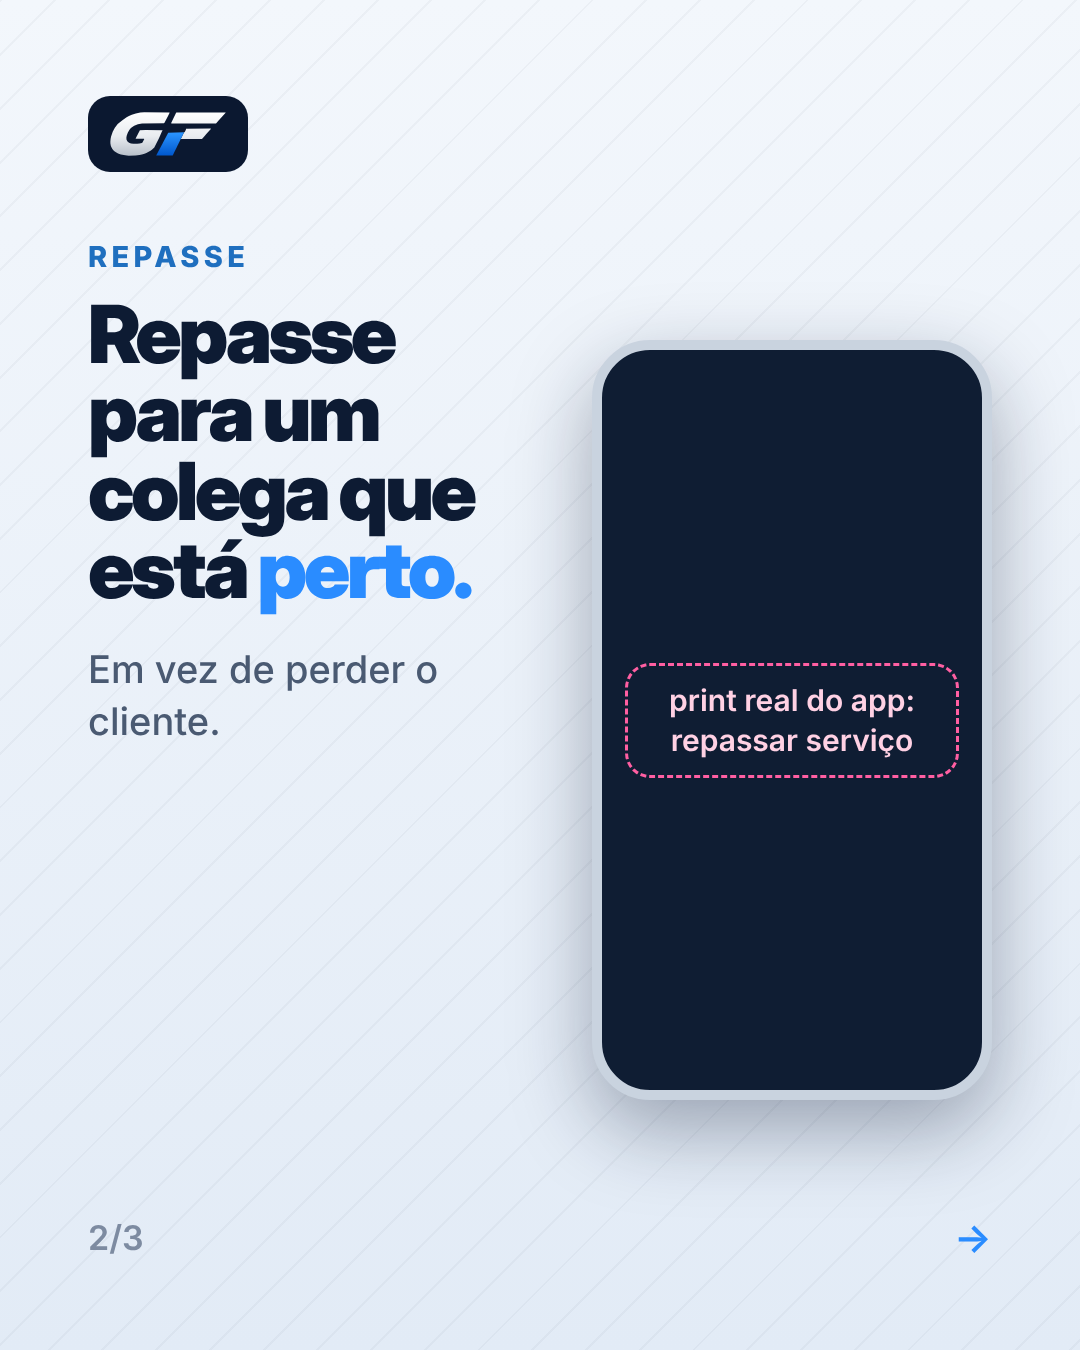
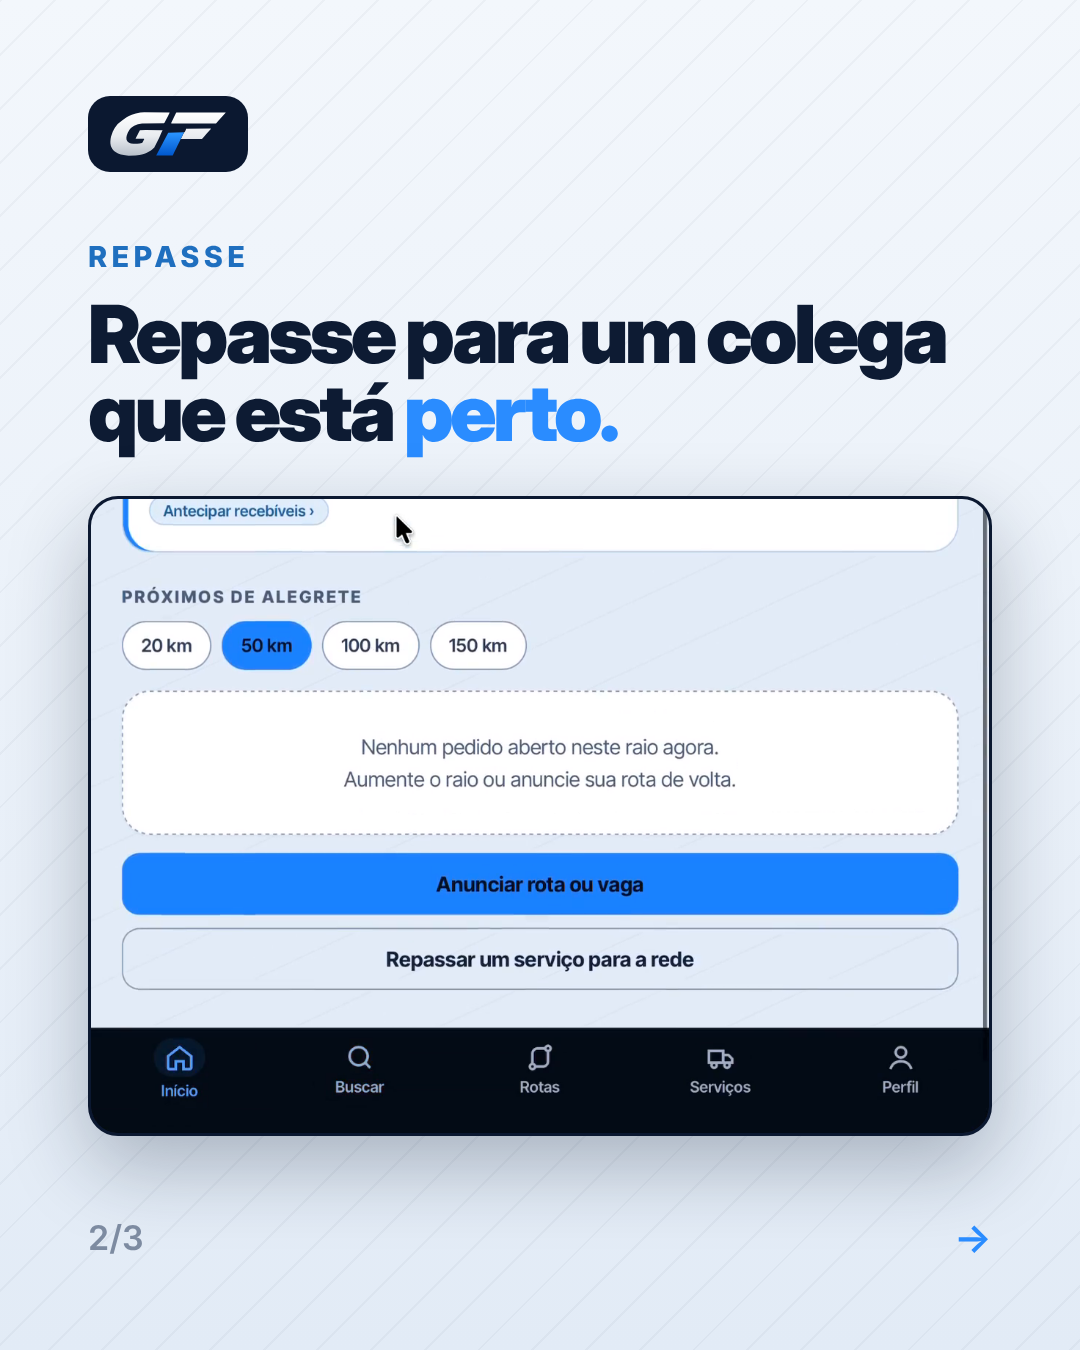
Use real app screens from the screen recording in tutorial and repasse arts
Claude-Session: https://claude.ai/code/session_019ynR5GfJeCsqWeiqbbuFrU

diff --git a/gf-designs/src/artes-pos.html b/gf-designs/src/artes-pos.html
@@ -14,10 +14,10 @@
 <!-- 25/11 Tutorial -->
 <div class="art feed dark" id="25-11_tutorial-1" data-photo="guincho-pesado-caminhao-tanque" data-n="1/5" data-arrow data-lock>
 <div class="bottom"><div class="kick">Passo a passo</div><h1>Como anunciar seu retorno em <span class="b">1 minuto.</span></h1><p class="p">Salve e mande para o parceiro que ainda volta vazio.</p></div></div>
-<div class="art feed light" id="25-11_tutorial-2" data-n="2/5" data-arrow><div class="half"><div class="kick">Passo 1</div><h1 class="s">Abra o app e toque em <span class="b">anunciar retorno.</span></h1></div><div class="phone"><span>print real do app: tela inicial</span></div></div>
-<div class="art feed light" id="25-11_tutorial-3" data-n="3/5" data-arrow><div class="half"><div class="kick">Passo 2</div><h1 class="s">Escolha de onde sai, para onde volta e o <span class="b">horário.</span></h1></div><div class="phone"><span>print real do app: origem, destino e horário</span></div></div>
-<div class="art feed light" id="25-11_tutorial-4" data-n="4/5" data-arrow><div class="half"><div class="kick">Passo 3</div><h1 class="s" style="font-size:68px">Diga o equipamento: plataforma, reboque, <span class="b">asa-delta.</span></h1></div><div class="phone"><span>print real do app: equipamento</span></div></div>
-<div class="art feed light" id="25-11_tutorial-5" data-n="5/5"><div class="half"><div class="kick">Passo 4</div><h1 class="s">Pronto: os pedidos que cabem no caminho <span class="b">aparecem.</span></h1></div><div class="phone"><span>print real do app: pedidos na rota com km de desvio</span></div></div>
+<div class="art feed light" id="25-11_tutorial-2" data-n="2/5" data-arrow><div class="kick">Passo 1</div><h1 class="s">Abra o app e toque em <span class="b">anunciar rota.</span></h1><div class="shot"><img src="../fotos/app-rotas-anunciar.png"></div></div>
+<div class="art feed light" id="25-11_tutorial-3" data-n="3/5" data-arrow><div class="kick">Passo 2</div><h1 class="s">De onde sai, para onde volta e <span class="b">quando.</span></h1><div class="shot"><img src="../fotos/app-anunciar-rota-form.png"></div></div>
+<div class="art feed light" id="25-11_tutorial-4" data-n="4/5" data-arrow><div class="kick">Passo 3</div><h1 class="s">Diga o equipamento <span class="b">livre.</span></h1><div class="shot"><img src="../fotos/app-equipamento.png"></div></div>
+<div class="art feed light" id="25-11_tutorial-5" data-n="5/5"><div class="kick">Passo 4</div><h1 class="s">Veja os pedidos e a distância de <span class="b">cada um.</span></h1><div class="shot"><img src="../fotos/app-buscar-pedidos.png"></div></div>
 
 <!-- 30/11 Rota do dia -->
 <div class="art feed dark" id="30-11_rota-do-dia-feed" data-lock>
@@ -48,7 +48,7 @@
 <!-- 07/12 Repasse -->
 <div class="art feed dark" id="07-12_repasse-1" data-photo="plataforma-chuva" data-n="1/3" data-arrow data-lock>
 <div class="bottom"><div class="kick">Guincheiro ajuda guincheiro</div><h1>Chamado longe demais? <span class="b">Agenda cheia?</span></h1></div></div>
-<div class="art feed light" id="07-12_repasse-2" data-n="2/3" data-arrow><div class="half"><div class="kick">Repasse</div><h1 class="s">Repasse para um colega que está <span class="b">perto.</span></h1><p class="p" style="font-size:38px">Em vez de perder o cliente.</p></div><div class="phone"><span>print real do app: repassar serviço</span></div></div>
+<div class="art feed light" id="07-12_repasse-2" data-n="2/3" data-arrow><div class="kick">Repasse</div><h1 class="s">Repasse para um colega que está <span class="b">perto.</span></h1><div class="shot"><img src="../fotos/app-inicio-repassar.png" style="object-position:bottom"></div></div>
 <div class="art feed dark" id="07-12_repasse-3" data-n="3/3" data-lock>
 <div class="kick">Guincheiro ajuda guincheiro</div><h1 class="m">Cliente atendido. Colega trabalhando. <span class="b">Ninguém volta vazio.</span></h1>
 <div class="btns"><div class="btn">appdoguincheiro.com</div><div class="btn o">Link na bio · @guinchofacil.app</div></div></div>

diff --git a/gf-designs/src/artes.css b/gf-designs/src/artes.css
@@ -103,3 +103,5 @@ svg.map{display:block;margin-top:40px}
 .story .bottom{bottom:300px}
 .bottom.withbtn{bottom:520px}
 .story .bottom.withbtn{bottom:640px}
+.shot{position:relative;z-index:2;margin-top:44px;height:640px;border-radius:30px;overflow:hidden;border:3px solid #0b1830;box-shadow:0 30px 80px rgba(13,27,51,.28);background:#0b1830}
+.shot img{width:100%;height:100%;object-fit:cover;object-position:top;display:block}
